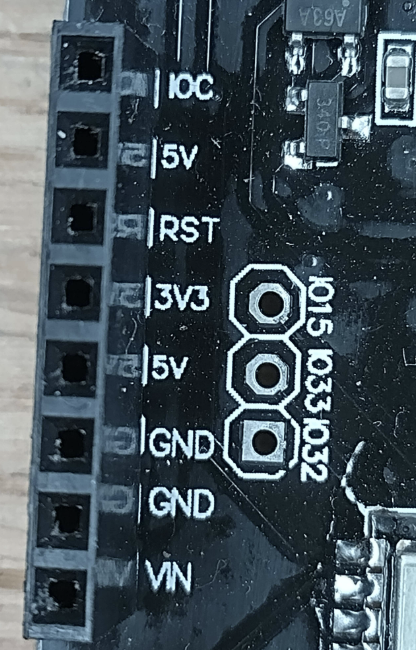
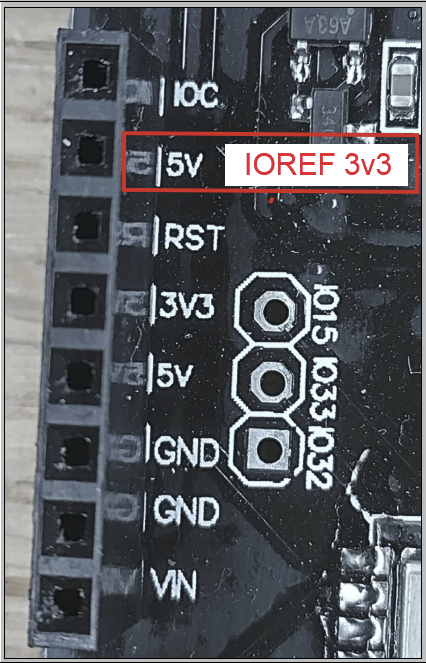
misc esp32 updates

diff --git a/docs/reference/esp32/16-esp32-ex8874.md b/docs/reference/esp32/16-esp32-ex8874.md
@@ -8,15 +8,14 @@ The information below may help explain how to overcome some of the complexities 
 
 ![WeMos R1 D32 IOREF](/_static/images/esp32/wemos-ioref-label.png){ width=20% align=right}
 
-- Solder a 250 to 330 ohms resistor, GPIO_0 to 3.3V, for reliable WiFi when using the WeMos D1 R32 ESP32duino.
-
-![WeMos R1 D32 resistor](/_static/images/esp32/resistor-io0.png){ width=40% }
+- Solder a 250 to 330 ohms resistor, GPIO_0 to 3.3V, for reliable WiFi when using the WeMos D1 R32 ESP32duino.  
+  ![WeMos R1 D32 resistor](/_static/images/esp32/resistor-io0.png){ width=40% }
 
 ## IOREF voltage
 
 - Do not confuse adding the resistor to correct high voltage on GPIO_0 with the need to work around the incorrect voltage of the IOREF pin.
 
-- From top to bottom the pins are: IO0, 5V (incorrect -- so not Arduino UNO R3 compliant), RESET, 3.3V, 5V, GND, GND, VIN as seen here:  
+- From top to bottom the pins are: IO0, 5V (incorrect -- IOREF should be 3.3V -- so not Arduino UNO R3 compliant), RESET, 3.3V, 5V, GND, GND, VIN as seen here:  
 
 ![EX8874 IOREF](/_static/images/esp32/ioref-override.png){ width=25% align=right}
 
@@ -66,10 +65,11 @@ When one EX8874 motor shield is used with WeMos R1 D32 ESP32duino, the alternate
 ### Single EX8874 Checklist
 
 - [ ] Cover the barrel connector on WeMos R1 D32, as VIN power will be provided by EX8874
-- [ ] Add resistor for WiFi reliability
+- [ ] Add resistor for WiFi reliability - GPIO_0 to 3v3
 - [ ] IOREF Override set to 3v3
+- [ ] Confirm that IOREF pin is bent or trace is cut
 - [ ] Alternate pins enabled via solder pads
-- [ ] `#define MOTOR_SHIELD_TYPE EX8874_SHIELD` on one line in config.h.
+- [ ] `#define MOTOR_SHIELD_TYPE EX8874_SHIELD` on one line in config.h
 
 ---
 
@@ -102,6 +102,7 @@ When one EX8874 motor shield is used with WeMos R1 D32 ESP32duino, the alternate
 - [ ] Cover the barrel connector on WeMos R1 D32, as VIN power will be provided by one EX8874  
 - [ ] Add resistor for WiFi reliability  
 - [ ] IOREF Override set to 3v3 on both EX8874 boards  
+- [ ] Confirm that IOREF pin is bent or trace is cut  
 - [ ] VIN trace cut and regulator disabled on top EX8874  
 - [ ] Alternate pins enabled via solder pads  
 - [ ] Complex wiring added  

diff --git a/docs/reference/esp32/18-esp32-acebott.md b/docs/reference/esp32/18-esp32-acebott.md
@@ -53,6 +53,7 @@
 
 - [ ] Cover the barrel connector on ACEBOTT ESP32, as VIN power will be provided by EX8874  
 - [ ] IOREF Override set to 3v3  
+- [ ] Confirm that IOREF pin is bent or trace is cut  
 - [ ] Add the custom motor define - 4 lines in config.h  
 
 ---
@@ -84,6 +85,7 @@
 
 - [ ] Cover the barrel connector on WeMos R1 D32, as VIN power will be provided by one EX8874  
 - [ ] IOREF Override set to 3v3 on both EX8874 boards  
+- [ ] Confirm that IOREF pin is bent or trace is cut
 - [ ] VIN trace cut and regulator disabled on top EX8874  
 - [ ] Alternate pins enabled via solder pads  
 - [ ] Jumpers added for GPIO 2 and 4  

diff --git a/docs/reference/nucleo/03-nucleo-drivers.md b/docs/reference/nucleo/03-nucleo-drivers.md
@@ -4,7 +4,7 @@
 
 When using any of the NUCLEO series microcontrollers with Microsoft Windows, you will need to install their STLink USB drivers in order to be able to upload software to them and use the Serial Monitor in either PlatformIO or the Arduino IDE.
 
-!!! warning "Note"
+!!! note "Note"
 
     You should install these drivers before plugging your NUCLEO device in for the first time.  
     Linux and MacOS users don’t need the drivers installed.
